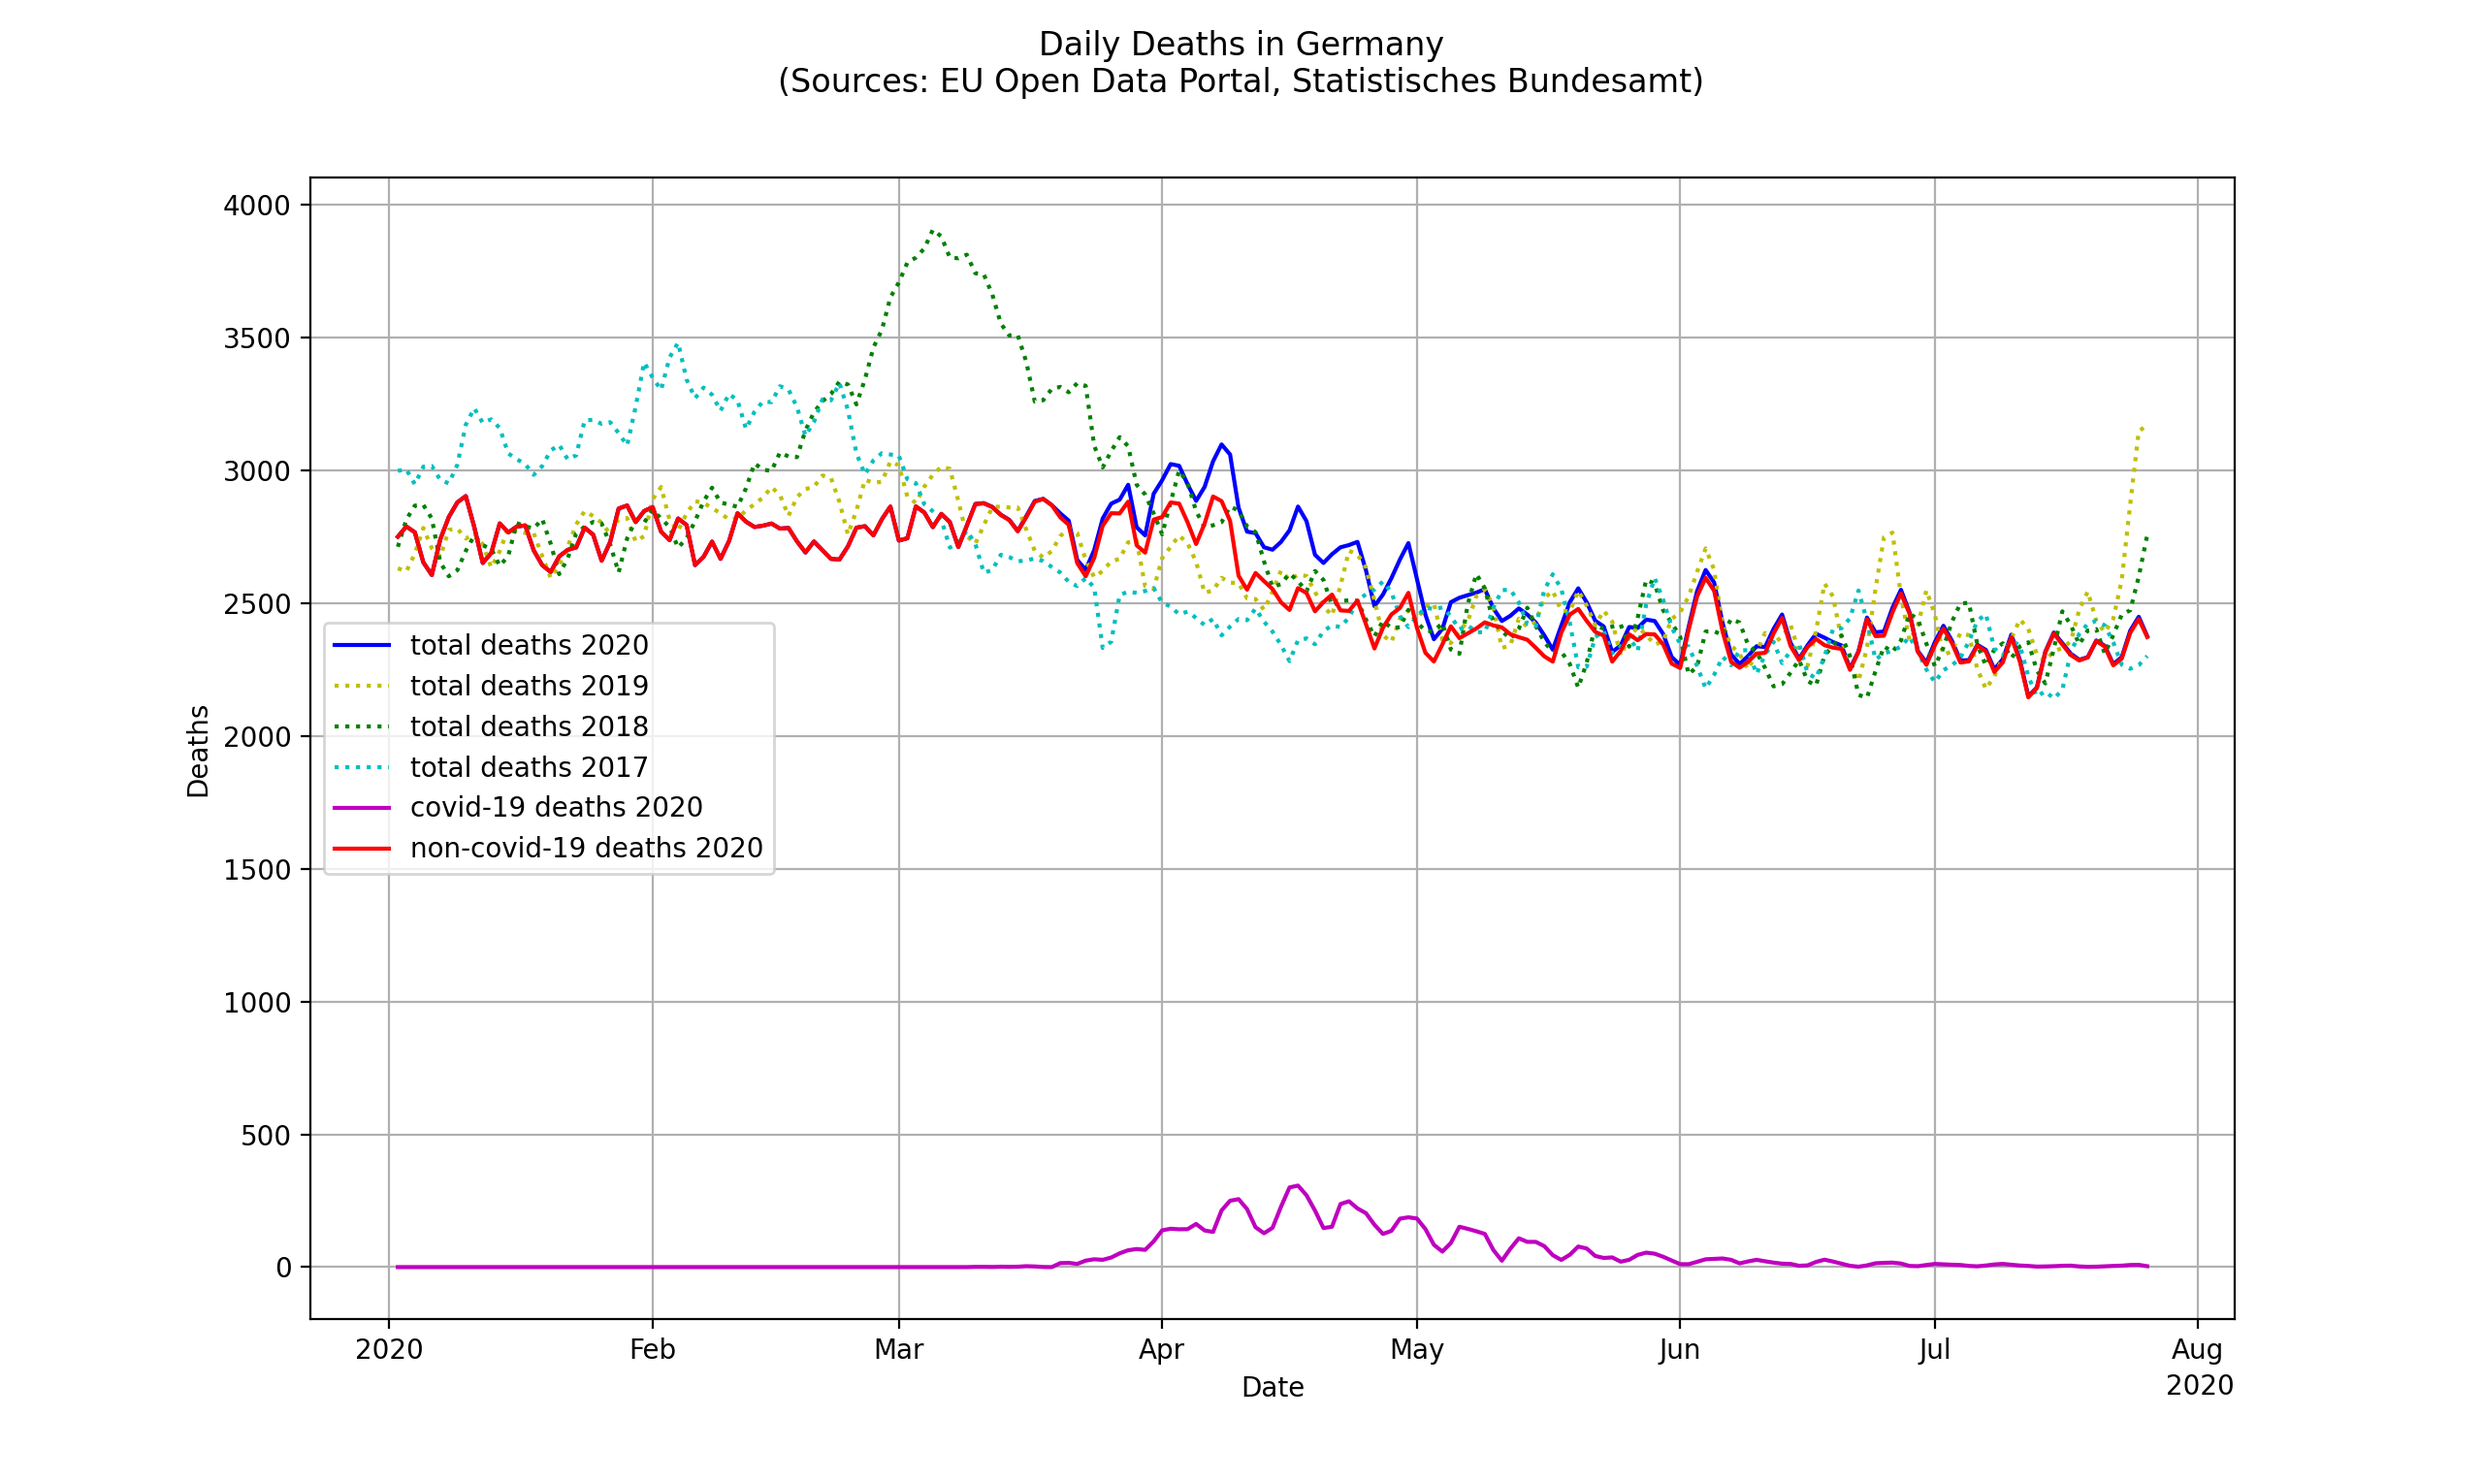
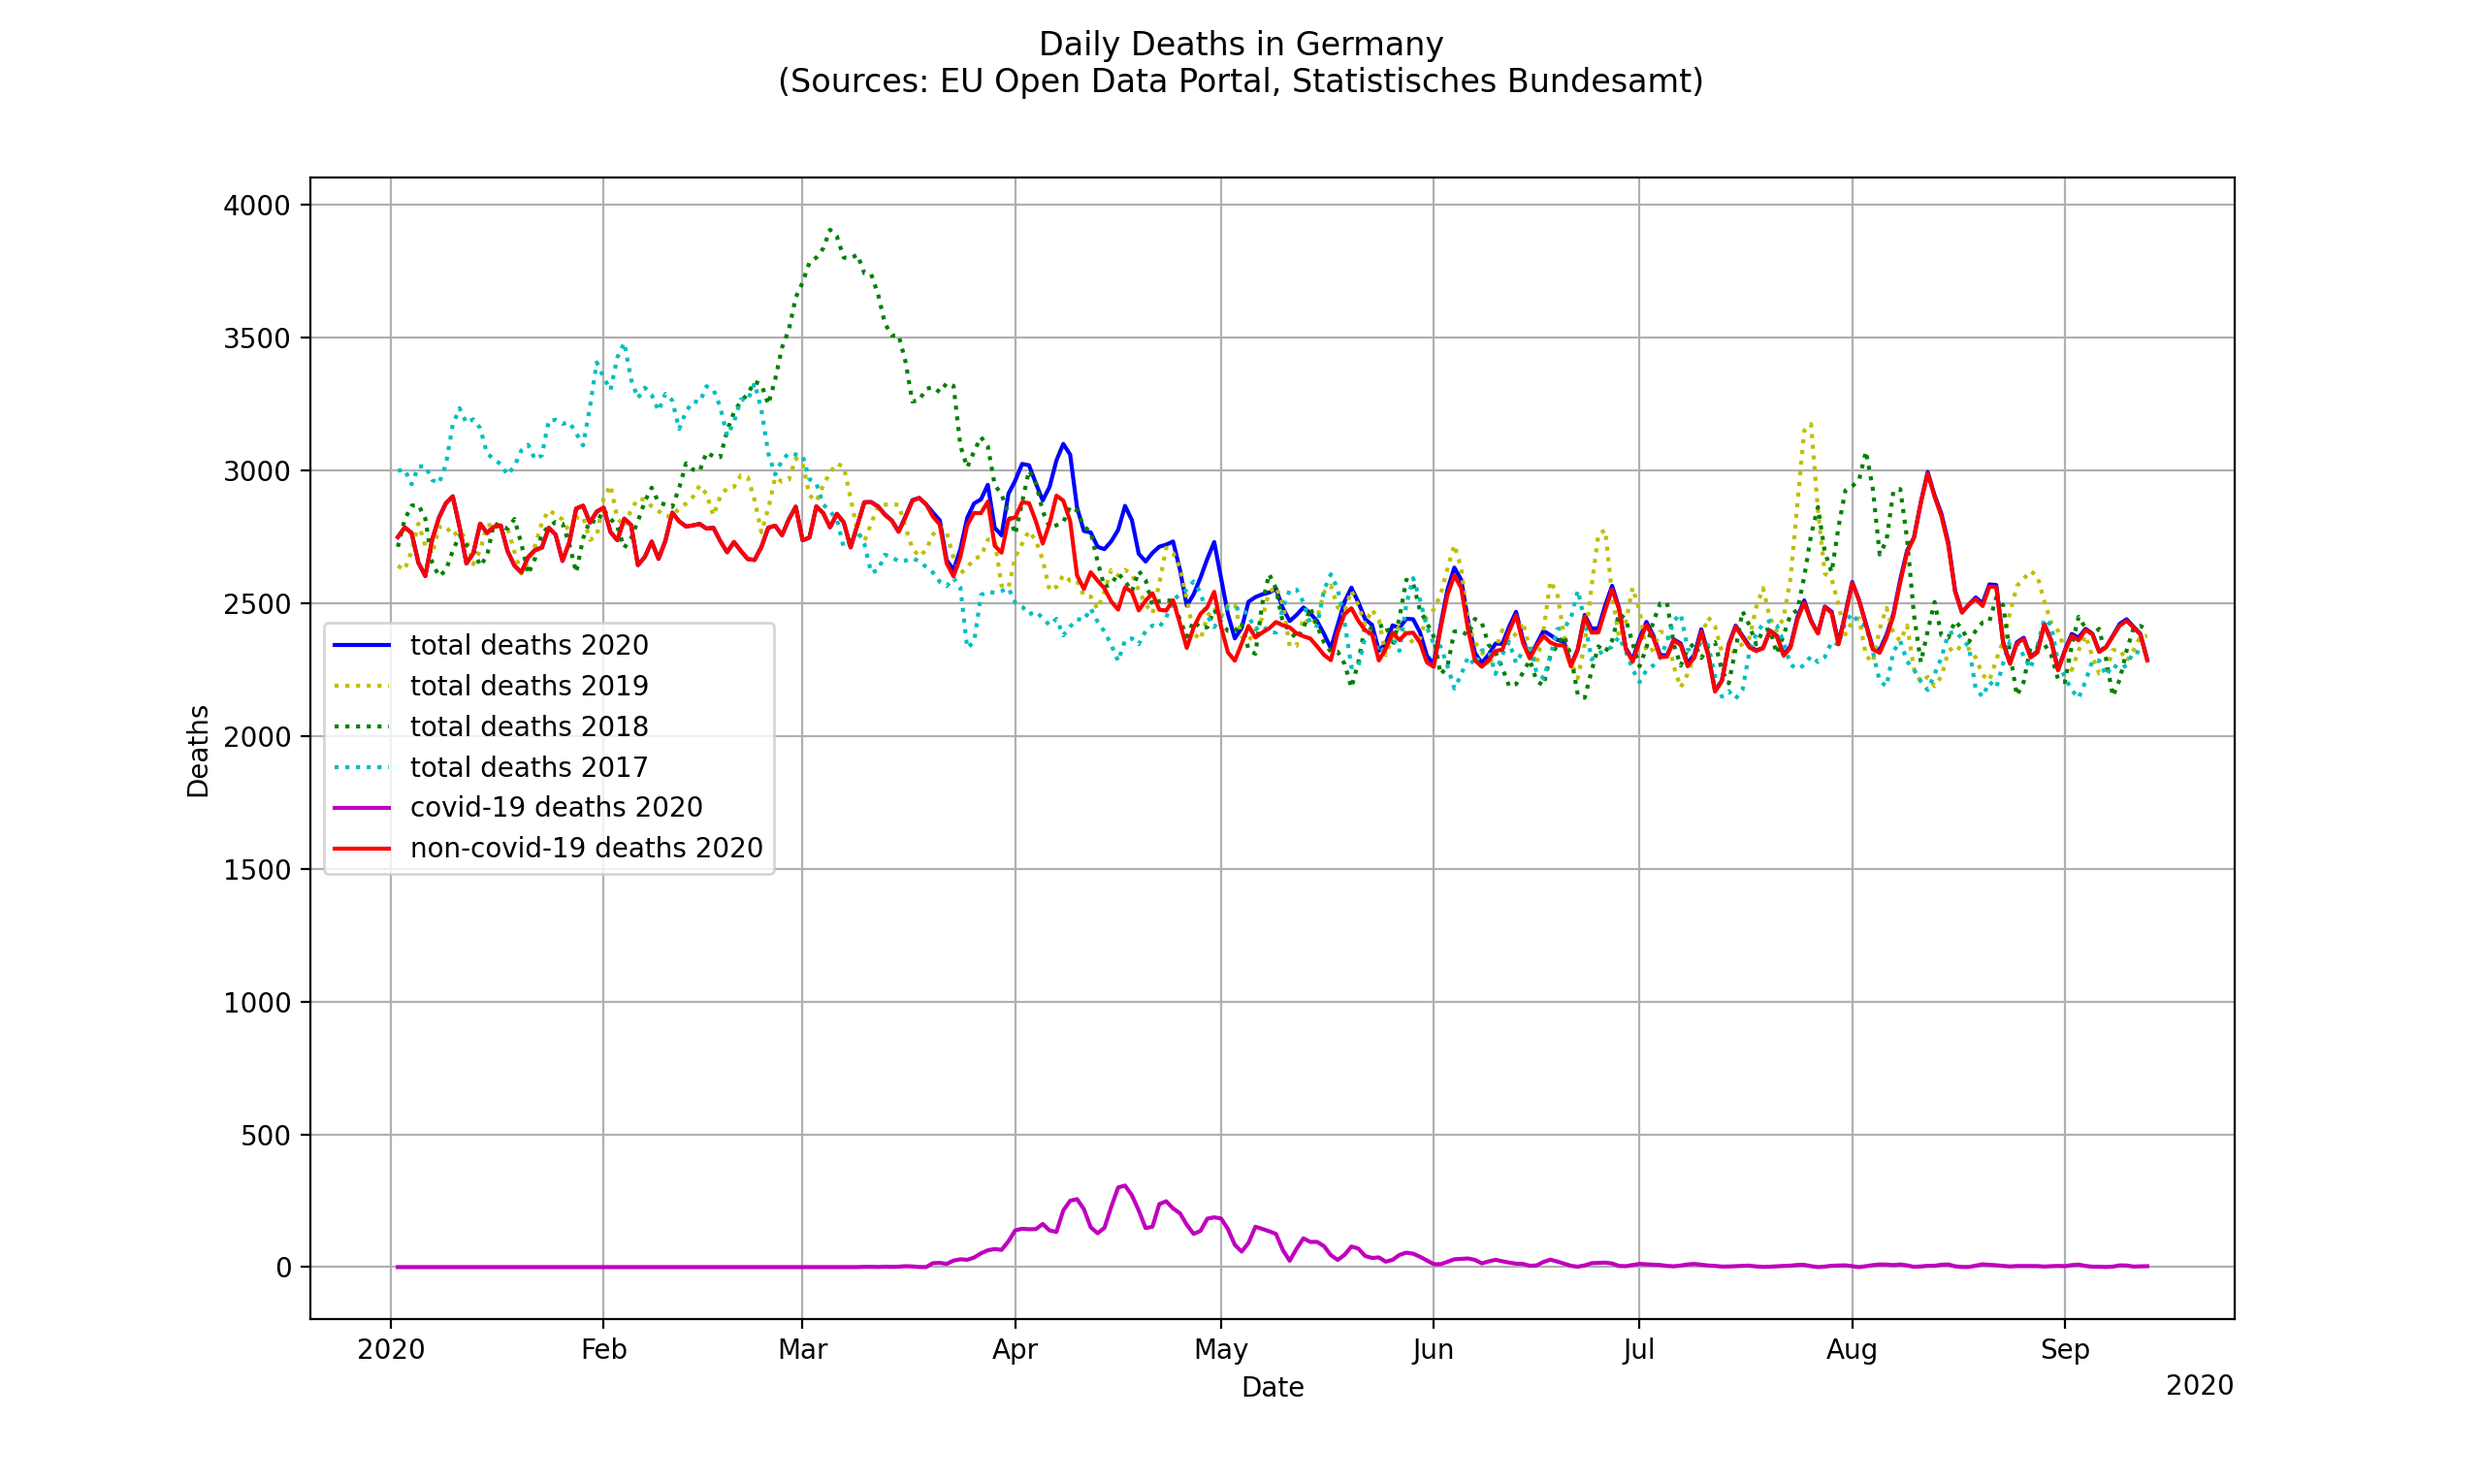
updated stats and code to match new formats

diff --git a/corona_database.py b/corona_database.py
@@ -15,6 +15,40 @@ from models.DeathsGermany import DeathsGermany
 from models.CountryData import CountryData
 from models.RkiTests import RkiTests
 
+tests_report =[
+        (10, 124716, 3892, 3.12),
+        (11, 127457, 7582, 5.95),
+        (12, 348619 ,23820, 6.83),
+        (13, 361515, 31414, 8.69),
+        (14, 408348, 36885, 9.03),
+        (15, 380197, 30791, 8.10),
+        (16, 331902, 22082, 6.65),
+        (17, 363890, 18083, 4.97),
+        (18, 326788, 12608, 3.86),
+        (19, 403875, 10755, 2.66),
+        (20, 432666, 7233, 1.67),
+        (21, 353467, 5218, 1.48),
+        (22, 405269, 4310, 1.06),
+        (23, 340986, 3208, 0.94),
+        (24, 327196, 2816, 0.86),
+        (25, 388187, 5316, 1.37),
+        (26, 467413, 3689, 0.79),
+        (27, 507663, 3104, 0.61),
+        (28, 510551, 2992, 0.59),
+        (29, 538701, 3497, 0.65),
+        (30, 574883, 4539, 0.79),
+        (31, 586620, 5738, 0.98),
+        (32, 736171, 7335, 1.00),
+        (33, 891988, 8661, 0.97),
+        (34, 1094506, 9233, 0.84),
+        (35, 1121214, 8324, 0.74),
+        (36, 1099560, 8175, 0.74),
+        (37, 1162133, 10025, 0.86),
+        (38, 1149171, 13275, 1.16),
+        (39, 1168390, 14301, 1.22),
+        (40, 1095858, 17964, 1.64),
+        ]
+
 
 def safe_cast(val, to_type, default=None):
     try:
@@ -66,7 +100,7 @@ def create_database():
     create_tables()
     import_corona_cases()
     import_deaths_germany()
-    import_rki_report()
+    import_rki_report_manual()
 
 
 def main():
@@ -123,35 +157,40 @@ def import_corona_cases():
 def import_deaths_germany():
     print("import deaths germany table")
 
-    data_2020_xls = pd.read_excel(cfg.path_deaths_germany, "D_2020_Tage", header=8, index_col=0, nrows=13)
-    data_2019_xls = pd.read_excel(cfg.path_deaths_germany, "D_2019_Tage", header=8, index_col=0, nrows=13)
-    data_2018_xls = pd.read_excel(cfg.path_deaths_germany, "D_2018_Tage", header=8, index_col=0, nrows=13)
-    data_2017_xls = pd.read_excel(cfg.path_deaths_germany, "D_2017_Tage", header=8, index_col=0, nrows=13)
-    data_2016_xls = pd.read_excel(cfg.path_deaths_germany, "D_2016_Tage", header=8, index_col=0, nrows=13)
-
-    years = [
-        data_2020_xls,
-        data_2019_xls,
-        data_2018_xls,
-        data_2017_xls,
-        data_2016_xls
-    ]
+    data_xls = pd.read_excel(cfg.path_deaths_germany, "D_2016_2020_Tage", header=8, index_col=0, nrows=13)
 
     with db.transaction():
-        for year in years:
-            year = year.T
-            for age in year.columns:
-                for day in year.index:
-                    if not isinstance(day, datetime.date):
-                        continue
-                    if day == "Insgesamt":
-                        continue
-                    DeathsGermany.create(
-                        date = day,
-                        age_group_start = safe_cast(age[:3], int, 0),
-                        age_group_end = safe_cast(age[5:8], int, 150),
-                        deaths = safe_cast(year[age][day], int, 0)
-                    )
+        for year in data_xls.index:
+            for day in data_xls.columns:
+                if day == "Insgesamt":
+                    continue
+
+                month = day.split(".")[1]
+                d = day.split(".")[0]
+                datum = "{}-{}-{}".format(year, month, d)
+                deaths = safe_cast(data_xls[day][year], int, 0)
+                if deaths == 0:
+                    continue
+
+                DeathsGermany.create(
+                    date = datum,
+                    age_group_start = safe_cast(0, int, 0),
+                    age_group_end = safe_cast(150, int, 150),
+                    deaths = deaths
+                )
+
+def import_rki_report_manual():
+    print("import rki report manual")
+
+    with db.transaction():
+        for r in tests_report:
+            RkiTests.create(
+                calendar_week = safe_cast(r[0], int, 0),
+                tests = safe_cast(r[1], int, 0),
+                positives = safe_cast(r[2], int, 0),
+                # ignore percentage column
+                participating_laboratories = safe_cast(0, int, 0)
+            )
 
 def import_rki_report():
     print("import rki report")

diff --git a/corona_config.py b/corona_config.py
@@ -17,7 +17,7 @@ backup_path_rki_report = "{}/backup_{}".format(data_folder, file_rki_report)
 
 link_corona_cases = "https://opendata.ecdc.europa.eu/covid19/casedistribution/csv"
 link_deaths_germany = "https://www.destatis.de/DE/Themen/Gesellschaft-Umwelt/Bevoelkerung/Sterbefaelle-Lebenserwartung/Tabellen/sonderauswertung-sterbefaelle.xlsx?__blob=publicationFile"
-link_rki_report = "https://www.rki.de/DE/Content/InfAZ/N/Neuartiges_Coronavirus/Situationsberichte/2020-08-19-de.pdf?__blob=publicationFile"
+link_rki_report = "https://www.rki.de/DE/Content/InfAZ/N/Neuartiges_Coronavirus/Situationsberichte/Okt_2020/2020-10-07-de.pdf?__blob=publicationFile"
 
 data_sources = [
     (link_corona_cases, path_corona_cases, backup_path_corona_cases),

diff --git a/corona_analysis.py b/corona_analysis.py
@@ -96,8 +96,8 @@ def positives_to_tests_germany():
     ax2.set_ylabel('Positives Ratio', color=color)
     ax2.plot(time, positives_ratio, color=color)
     ax2.tick_params(axis='y', labelcolor=color)
-    ax1.set_ylim([0, 1000])
-    ax2.set_ylim([0, 0.55])
+    ax1.set_ylim([0, 1200])
+    ax2.set_ylim([0, 0.3])
 
     plt.subplot(2, 1, 2)
     ax1 = plt.gca()
@@ -113,7 +113,7 @@ def positives_to_tests_germany():
     ax2.set_ylabel('Absolute Positives (in thousands)', color=color)
     ax2.plot(time, positives, color=color)
     ax2.tick_params(axis='y', labelcolor=color)
-    ax1.set_ylim([0, 1000])
+    ax1.set_ylim([0, 1200])
     ax2.set_ylim([0, 100])
 
 

diff --git a/README.md b/README.md
@@ -62,7 +62,7 @@ Fields in Table `rki_tests`
 The integrated sources so far consist of:
 * the total number of COVID-19 cases reported worlwide, comming from the EU Open Data Portal (https://data.europa.eu/euodp/en/data/dataset/covid-19-coronavirus-data) 
 * the total number of all cause deaths in Germany, reported by the Statistisches Bundesamt (https://www.destatis.de/DE/Themen/Gesellschaft-Umwelt/Bevoelkerung/Sterbefaelle-Lebenserwartung/Tabellen/sonderauswertung-sterbefaelle.html)
-* the total number of performed COVID-19 tests in Germany, reported by the Robert Koch Institute (https://www.rki.de/DE/Content/InfAZ/N/Neuartiges_Coronavirus/Situationsberichte/2020-08-18-de.pdf)
+* the total number of performed COVID-19 tests in Germany, reported by the Robert Koch Institute (https://www.rki.de/DE/Content/InfAZ/N/Neuartiges_Coronavirus/Situationsberichte/Okt_2020/2020-10-07-de.pdf)
 
 
 ## Results
